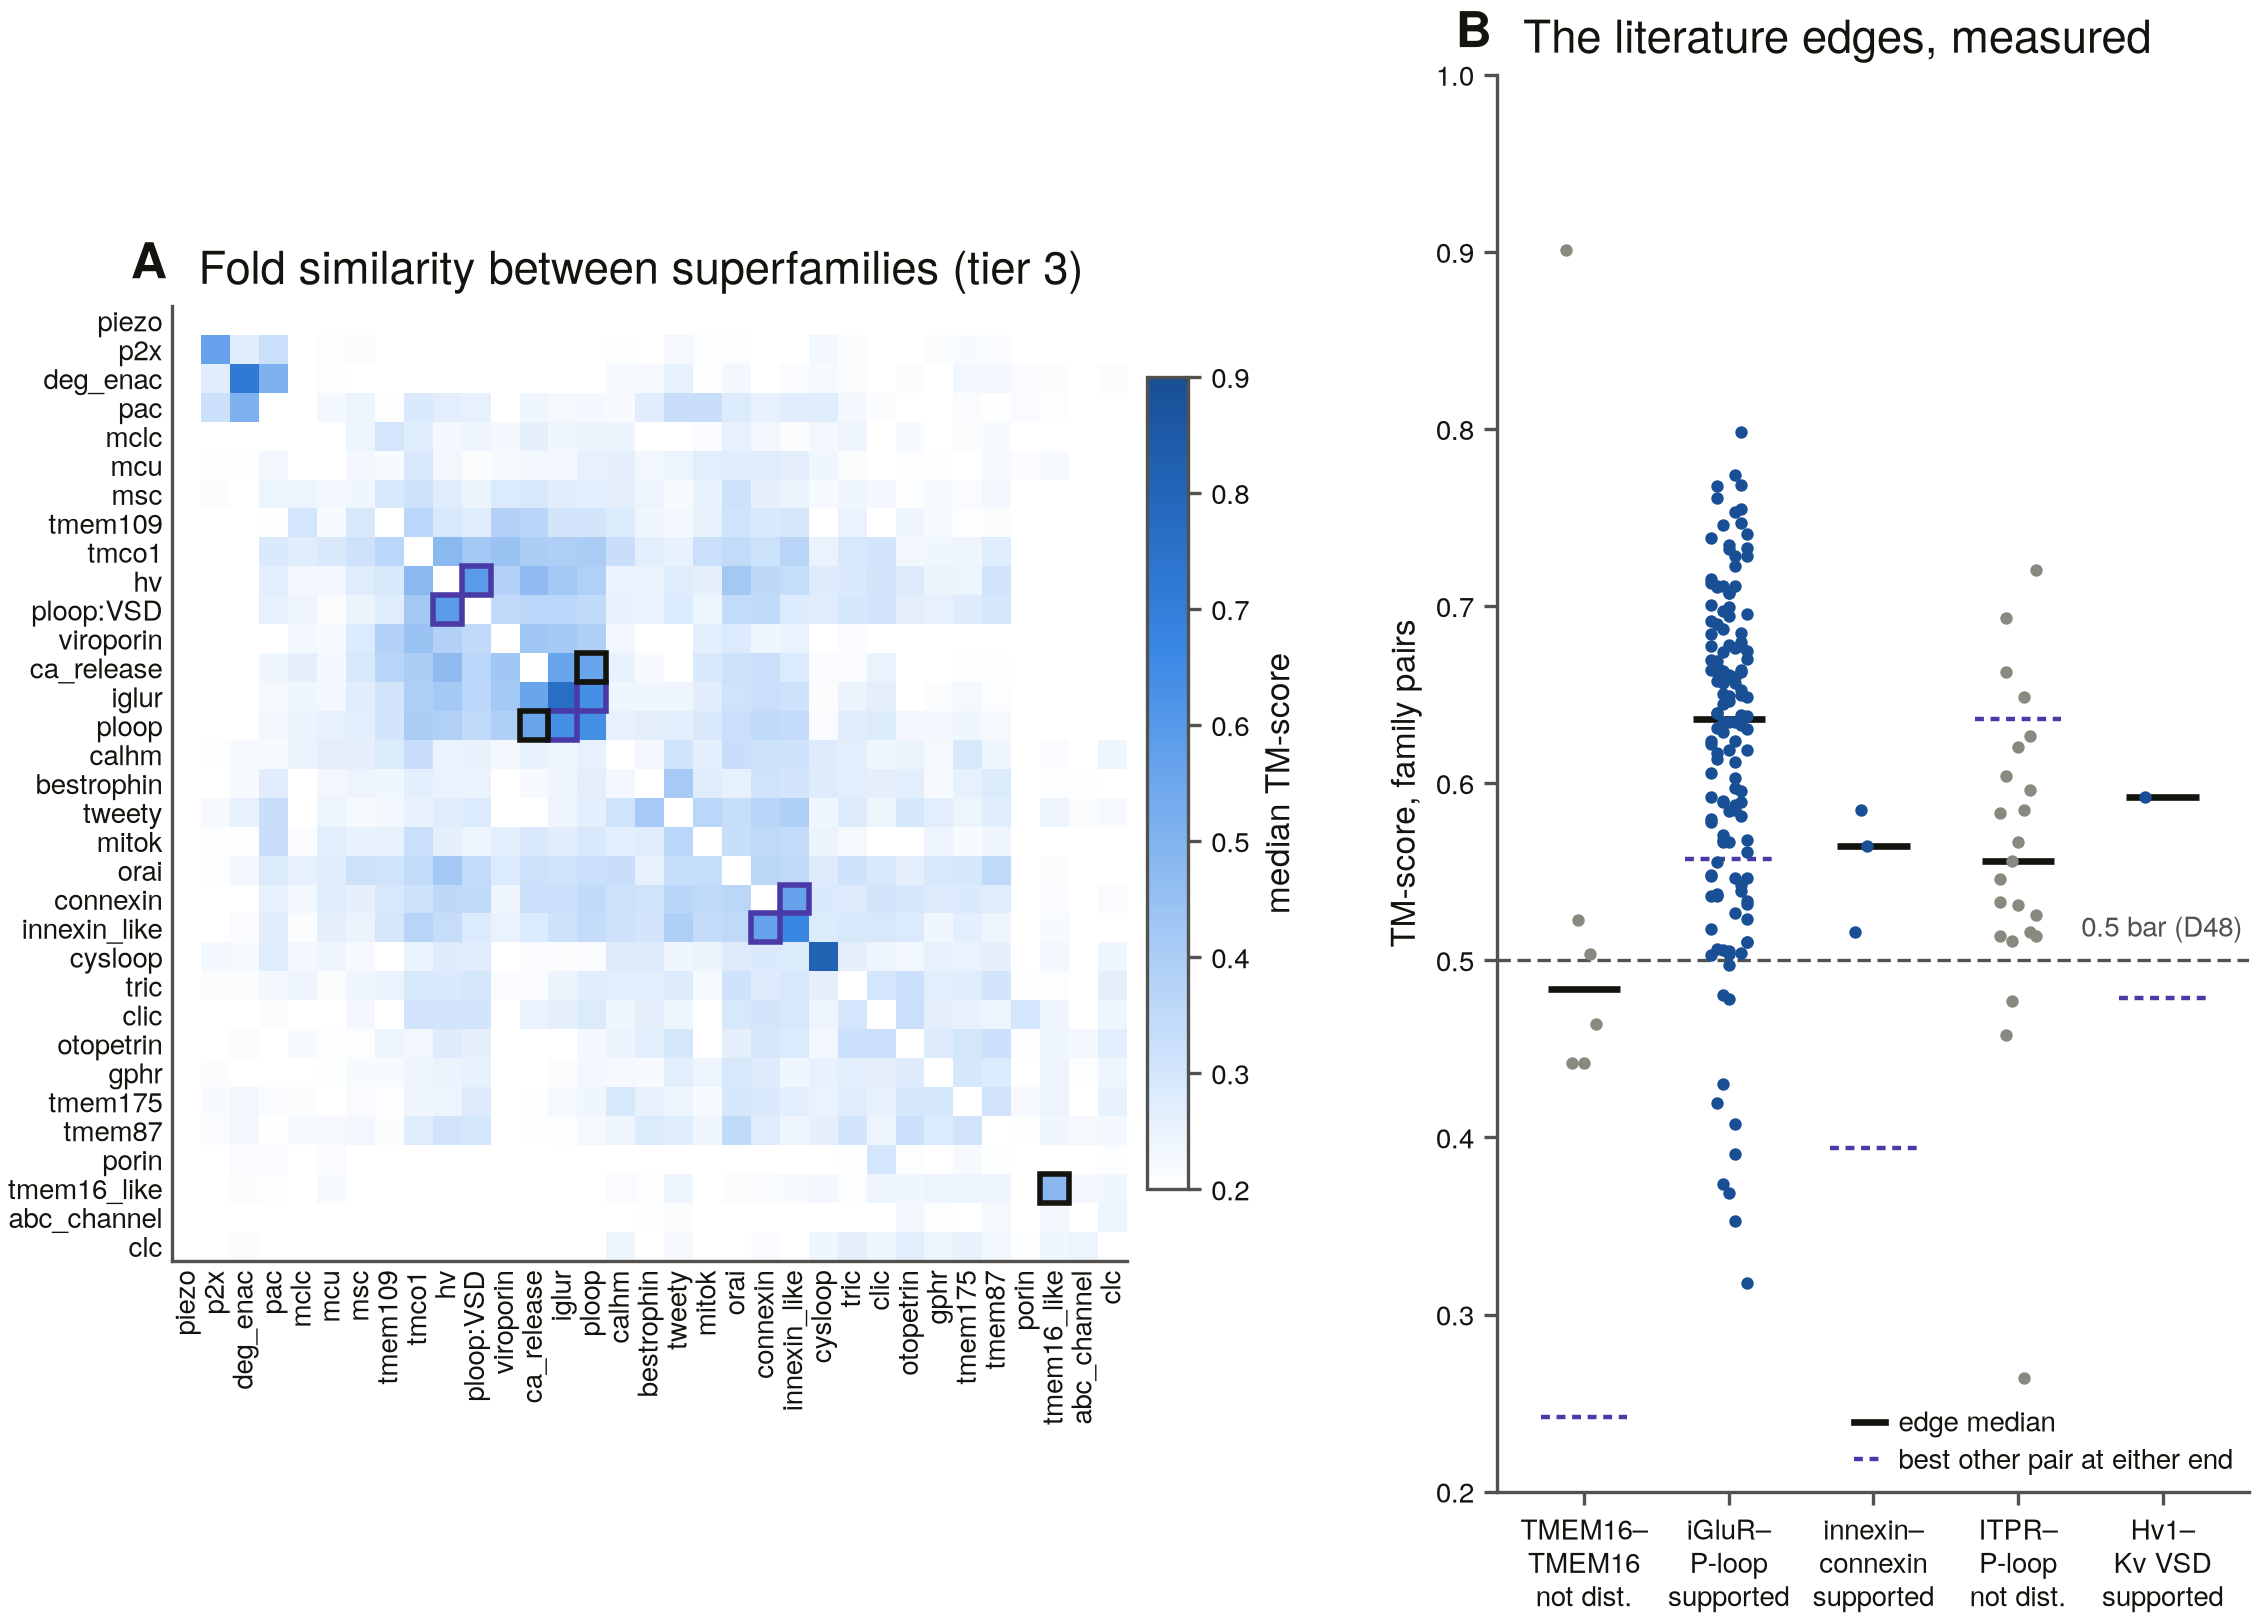
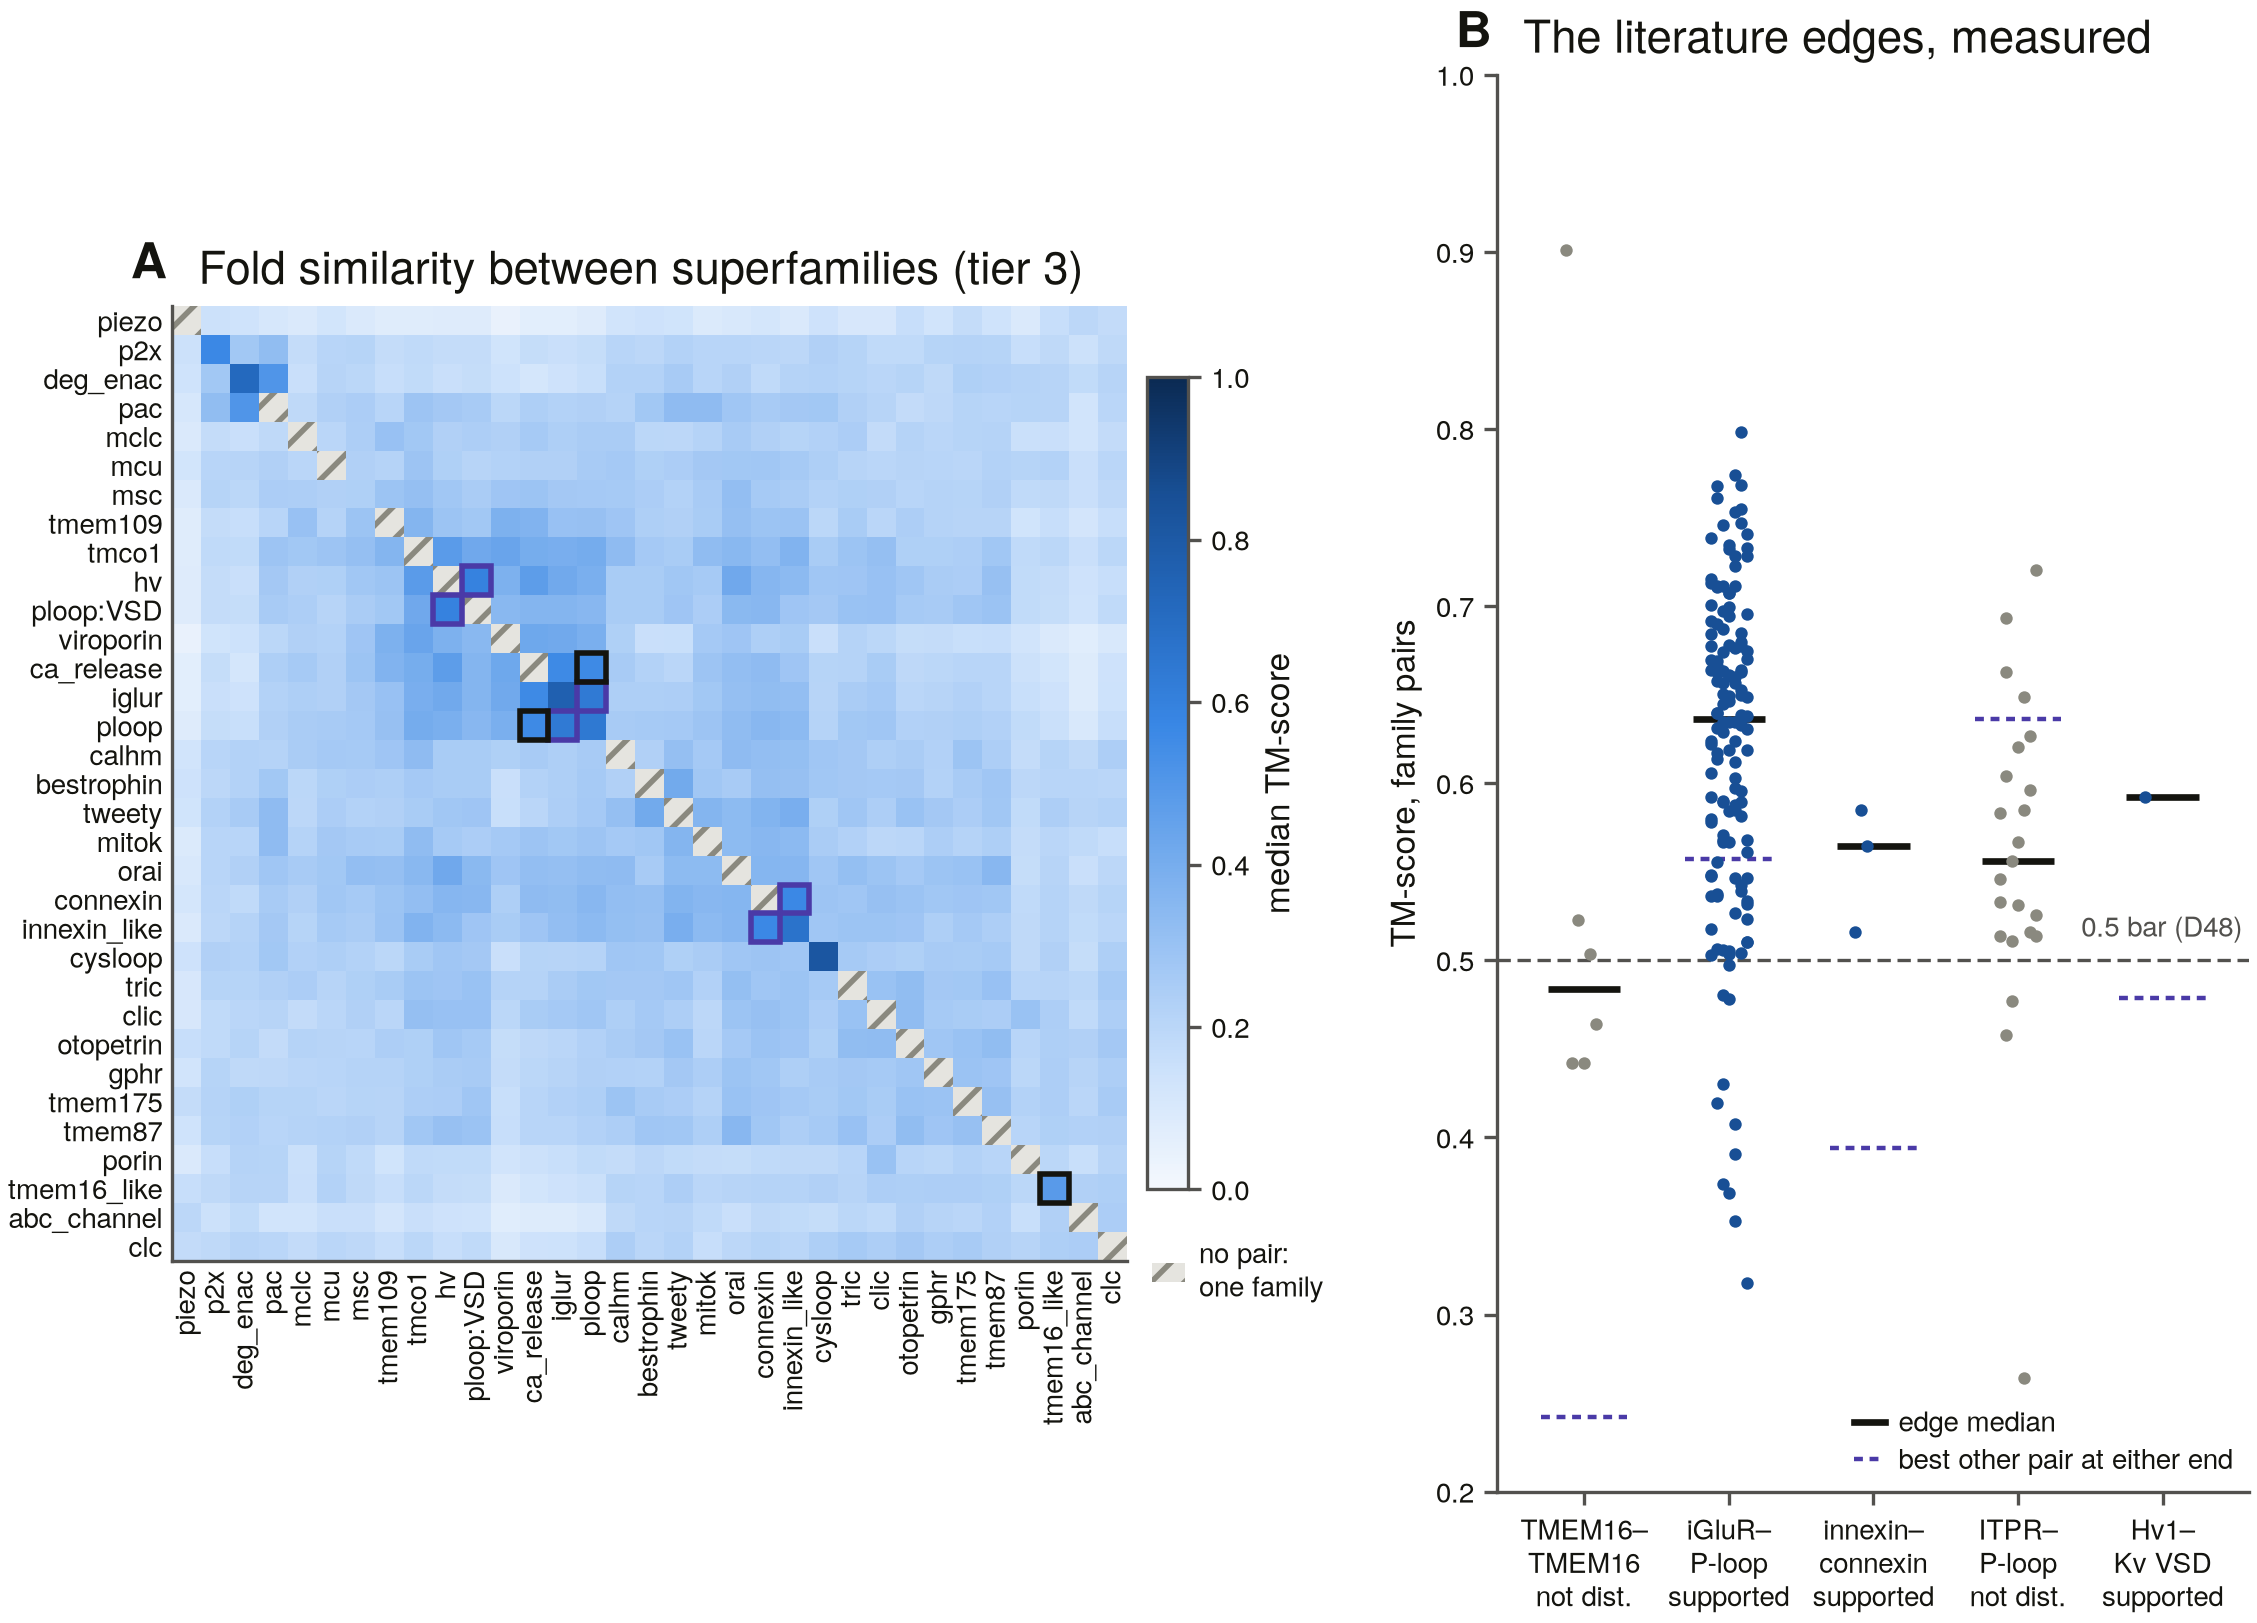
S8a figure: fold-network matrix on the full 0–1 scale; unmeasured cells hatched, no longer white like clipped low values

Changed region(s): [[0.062, 0.1848, 0.5893, 0.801], [0.5272, 0.6161, 0.5583, 0.6778], [0.5272, 0.5237, 0.5583, 0.5545]]

diff --git a/scripts/s8_figures.py b/scripts/s8_figures.py
@@ -5,7 +5,9 @@ Drawn from the committed tables (D13), through `figstyle.py`:
 
 * **A** — superfamily × superfamily median TM-score (TM-align, average-length
   normalisation; one AFDB model per census family cut to its comparison unit),
-  ordered by average-linkage clustering of the matrix. Literature edges boxed.
+  ordered by average-linkage clustering of the matrix, on the full 0–1 scale.
+  Hatched cells have no pair to measure (the diagonal of a one-family
+  superfamily). Literature edges boxed.
 * **B** — each literature edge: every family-pair TM-score behind it, the
   0.5 bar fixed before measuring (D48), and the best median any *other*
   superfamily pair touching either end reaches — the background the rank
@@ -61,8 +63,16 @@ def panel_matrix(ax, fig) -> None:
     for i, a in enumerate(order):
         for j, b in enumerate(order):
             m[i, j] = med.get(tuple(sorted((a, b))), np.nan)
-    cmap = LinearSegmentedColormap.from_list("tm", ["#ffffff", *fs.BLUES])
-    im = ax.imshow(m, cmap=cmap, vmin=0.2, vmax=0.9, interpolation="nearest")
+    # Full 0–1 scale, no clipping; the ramp starts at a pale tint, never white,
+    # so an unmeasured cell (no within-superfamily pair: one census family) is
+    # drawn apart from every measured value.
+    cmap = LinearSegmentedColormap.from_list("tm", ["#f4f8fd", *fs.BLUES, "#0b2a52"])
+    im = ax.imshow(np.ma.masked_invalid(m), cmap=cmap, vmin=0.0, vmax=1.0,
+                   interpolation="nearest")
+    for i, j in zip(*np.where(np.isnan(m))):
+        ax.add_patch(Rectangle((j - 0.5, i - 0.5), 1, 1, fc=fs.GRID, ec=fs.FAINT,
+                               lw=0, hatch="////"))
+
     ax.set_xticks(range(len(order)), order, rotation=90, fontsize=5)
     ax.set_yticks(range(len(order)), order, fontsize=5)
     ax.tick_params(length=0)
@@ -77,6 +87,11 @@ def panel_matrix(ax, fig) -> None:
     cb = fig.colorbar(im, ax=ax, fraction=0.04, pad=0.02)
     cb.set_label("median TM-score", fontsize=6)
     cb.ax.tick_params(labelsize=5)
+    from matplotlib.patches import Patch
+    cb.ax.legend(handles=[Patch(fc=fs.GRID, ec=fs.FAINT, lw=0, hatch="////",
+                                label="no pair:\none family")],
+                 fontsize=5, frameon=False, loc="upper left",
+                 bbox_to_anchor=(-0.3, -0.04), handlelength=1.2)
     fs.panel(ax, "A", "Fold similarity between superfamilies (tier 3)")
 
 

diff --git a/README.md b/README.md
@@ -192,7 +192,7 @@ including a phosphatase. Drawn from `results/s0_baseline/` by
 
 ![S8a: superfamily fold-similarity matrix and the five literature edges measured](results/phylogeny/figures/fold_network.png)
 
-*Tier 3, where no tree can be built (D27). **A** — median TM-score (TM-align, average-length normalisation) between every pair of superfamilies, one AlphaFold DB model per census family cut to its comparison unit (pore module for module superfamilies, whole model otherwise, pLDDT ≥ 70), ordered by clustering; boxes mark the literature's asserted relationships (violet = supported). **B** — every family-pair score behind each asserted edge, with the 0.5 bar and the best score any other superfamily pair reaches at either end, both fixed before measuring (D48): the iGluR pore, the Hv1 voltage sensor and the innexin/connexin large pores are supported; TMEM16/OSCA/TMC sits just under the bar (0.48) though far above any outside partner, and ITPR's pore is as close to the iGluR pore as to the P-loop's. Drawn from `results/phylogeny/fold_network/` by `scripts/s8_figures.py`.*
+*Tier 3, where no tree can be built (D27). **A** — median TM-score (TM-align, average-length normalisation) between every pair of superfamilies, one AlphaFold DB model per census family cut to its comparison unit (pore module for module superfamilies, whole model otherwise, pLDDT ≥ 70), on the full 0–1 scale, ordered by clustering; hatched cells have no pair to measure (the diagonal of a one-family superfamily); boxes mark the literature's asserted relationships (violet = supported). **B** — every family-pair score behind each asserted edge, with the 0.5 bar and the best score any other superfamily pair reaches at either end, both fixed before measuring (D48): the iGluR pore, the Hv1 voltage sensor and the innexin/connexin large pores are supported; TMEM16/OSCA/TMC sits just under the bar (0.48) though far above any outside partner, and ITPR's pore is as close to the iGluR pore as to the P-loop's. Drawn from `results/phylogeny/fold_network/` by `scripts/s8_figures.py`.*
 
 ## What makes this hard, in three examples
 
